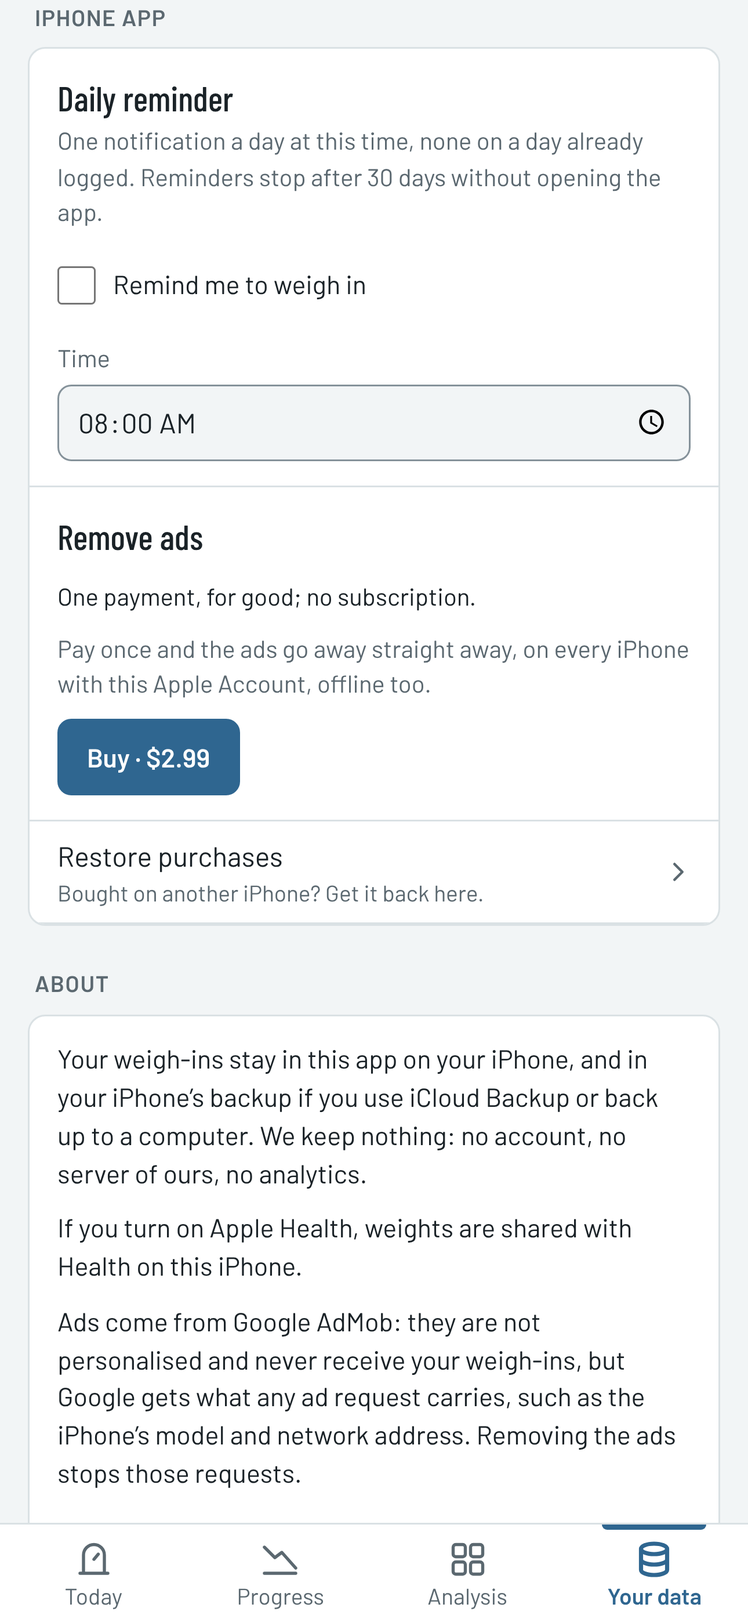
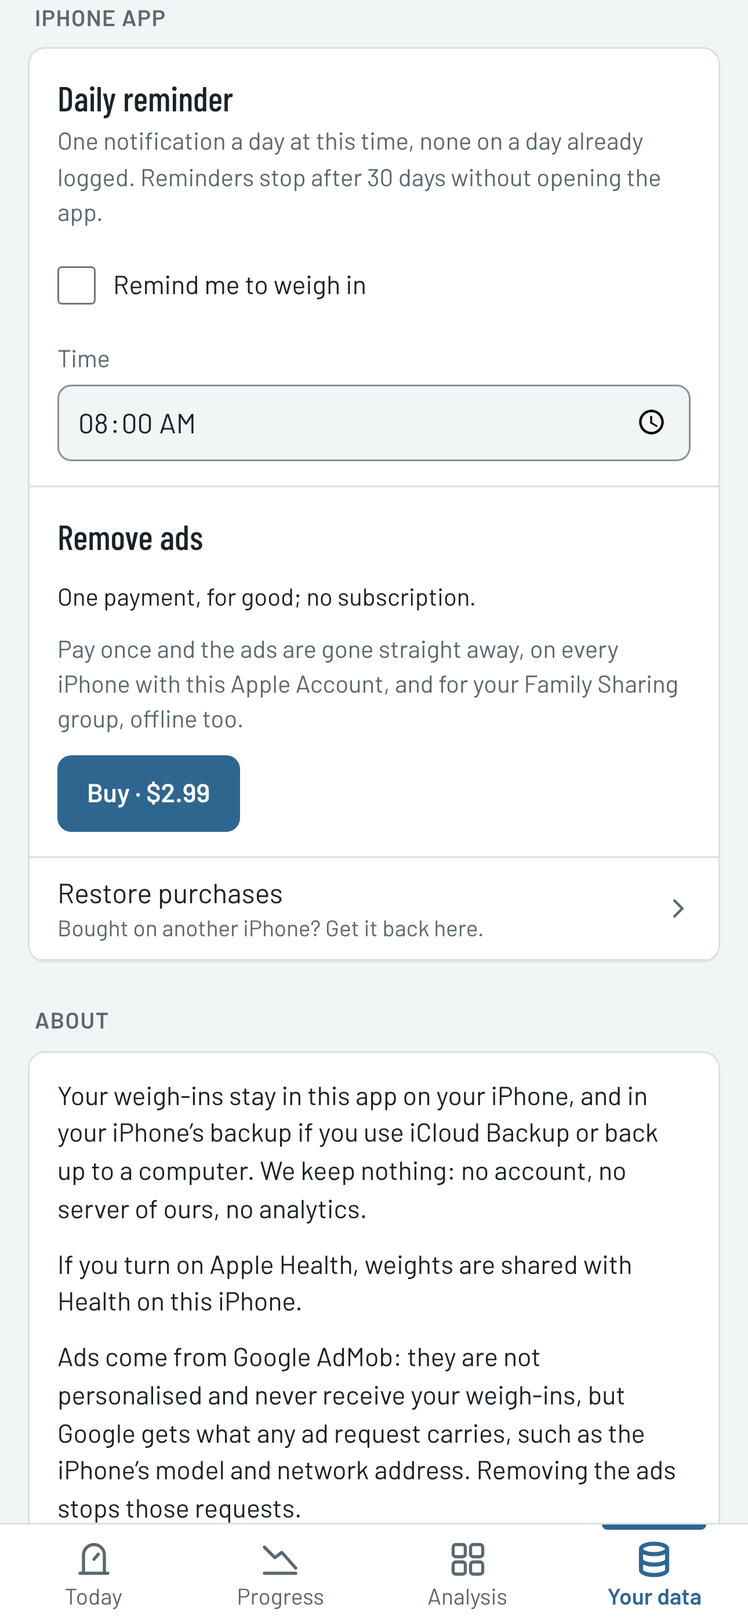
Remove ads review round 3: the one TestFlight purchase last, Screen Time on return
- STORE.md and STORE_PT.md: step 5 tries the purchase without buying (price,
  cancel, Screen Time, offline, Restore finding nothing); step 11 ends with the
  one TestFlight purchase, recorded with the proxy or Instruments running, then
  the reinstall and Restore; the recording shows the price and "No purchase to
  restore"; a second Apple Account as the alternative.
- Back in the app with the price showing, purchases are asked about again, so a
  Screen Time restriction shows at once; a Restore that fails online asks for
  the offer again.
- The note: "the ads are gone straight away"; the review screenshot's product
  is shared with the family, as in Products.storekit, and made again.
- Decisions 139, 141, 143 and 144 revised; 145 new.

Claude-Session: https://claude.ai/code/session_011eyJmFqrKPtnAc9no4tn3K

Changed region(s): [[0.031, 0.3734, 0.8992, 0.9335], [0.6512, 0.3734, 0.8992, 0.4356], [0.8062, 0.7468, 0.8372, 0.7779]]

diff --git a/src/ads/purchase.dom.test.ts b/src/ads/purchase.dom.test.ts
@@ -130,6 +130,36 @@ describe('Remove ads at launch', () => {
   });
 });
 
+describe('coming back to the app', () => {
+  it('says purchases are turned off when Screen Time forbade them while the price showed', async () => {
+    const p = start();
+    p.show();
+    await p.settled();
+    expect(offer()).toBe('ready');
+    store.allowed = false;
+    document.dispatchEvent(new Event('visibilitychange'));
+    await settle();
+    await settle();
+    expect(offer()).toBe('not-allowed');
+    // Allowed again: the price comes back on the next return.
+    store.allowed = true;
+    document.dispatchEvent(new Event('visibilitychange'));
+    await settle();
+    await p.settled();
+    expect(offer()).toBe('ready');
+  });
+
+  it('keeps the price when purchases are still allowed', async () => {
+    const p = start();
+    p.show();
+    await p.settled();
+    document.dispatchEvent(new Event('visibilitychange'));
+    await settle();
+    await settle();
+    expect(p.view().offer).toEqual({ kind: 'ready', product: PRODUCT });
+  });
+});
+
 describe('buying Remove ads', () => {
   const ready = async () => {
     const p = start();
@@ -311,6 +341,21 @@ describe('answers that arrive out of order (Spock’s review)', () => {
     store.finishBuy();
     await buying;
     expect(html.classList.contains(BUYING_CLASS)).toBe(false);
+  });
+
+  it('asks for the offer again when a Restore fails online after an offline line', async () => {
+    store.failProduct = 'other';
+    online = false;
+    const p = start();
+    p.show();
+    await p.settled();
+    expect(offer()).toBe('offline');
+    online = true;
+    store.failProduct = null;
+    store.restoreFails = true;
+    await p.restore();
+    await p.settled();
+    expect(p.view()).toEqual({ offer: { kind: 'ready', product: PRODUCT }, restore: 'failed' });
   });
 
   it('reports Restore as restored when it is already held', async () => {

diff --git a/src/ads/purchase.ts b/src/ads/purchase.ts
@@ -239,6 +239,15 @@ export function startPurchase(options: PurchaseOptions): LivePurchase {
     // Back in the app: what stopped the offer may have gone (online again, purchases allowed).
     const { kind } = view.offer;
     if (kind === 'offline' || kind === 'unavailable' || kind === 'not-allowed') await loadOffer();
+    // Or purchases may have been forbidden meanwhile (Screen Time): the button would only fail.
+    else if (kind === 'ready') {
+      const n = ++asked;
+      const allowed = await api.canPay().catch(() => true);
+      // Read again: the offer may have changed while the App Store was asked.
+      const still = (): Offer['kind'] => view.offer.kind;
+      if (!allowed && n === asked && !heldNow() && still() === 'ready')
+        set({ offer: { kind: 'not-allowed' } });
+    }
   };
 
   const first = ask();
@@ -356,6 +365,10 @@ export function startPurchase(options: PurchaseOptions): LivePurchase {
       } catch (error) {
         onError(error);
         set({ restore: online() ? 'failed' : 'offline' });
+        // Online, a stale "can't be reached" under Remove ads is asked again.
+        const { kind } = view.offer;
+        if (online() && (kind === 'offline' || kind === 'failed' || kind === 'unavailable'))
+          await loadOffer();
       }
     },
     show: () => {

diff --git a/src/i18n/messages.ts b/src/i18n/messages.ts
@@ -1072,7 +1072,7 @@ export const en = {
   'iap.title': 'Remove ads',
   'iap.ready': 'One payment, for good; no subscription.',
   'iap.note': (family: boolean): string =>
-    `Pay once and the ads go away straight away, on every iPhone with this Apple Account${family ? ', and for your Family Sharing group' : ''}, offline too.`,
+    `Pay once and the ads are gone straight away, on every iPhone with this Apple Account${family ? ', and for your Family Sharing group' : ''}, offline too.`,
   'iap.buy': (price: string) => `Buy · ${price}`,
   'iap.buying': 'Opening the App Store…',
   'iap.buyingButton': 'Buying…',

diff --git a/src/ui/remove-ads.dom.test.ts b/src/ui/remove-ads.dom.test.ts
@@ -78,7 +78,7 @@ describe('Remove ads', () => {
     expect(button().hidden).toBe(false);
     expect(button().textContent).toBe('Buy · R$ 14,90');
     expect($('remove-ads-note').textContent).toBe(
-      'Pay once and the ads go away straight away, on every iPhone with this Apple Account, offline too.',
+      'Pay once and the ads are gone straight away, on every iPhone with this Apple Account, offline too.',
     );
     button().click();
     expect(purchase.calls).toContain('buy');

diff --git a/docs/STORE_PT.md b/docs/STORE_PT.md
@@ -66,29 +66,30 @@ de consentimento.
    - O **Compartilhamento Familiar** é escolha sua, e pode ser ligado depois, mas nunca mais
      desligado. O app o lê da App Store: ligado, a linha sob o botão acrescenta "e para o seu grupo
      de Compartilhamento Familiar".
-   - **Teste no TestFlight** assim que a compra existir (ela precisa do acordo do passo 2; pode
-     levar uma hora para chegar ao sandbox). As compras no TestFlight são gratuitas, usam a sua
-     própria Conta Apple e **não podem ser apagadas**: comprado uma vez, essa Conta Apple tem Remover
-     anúncios no TestFlight para sempre. Então confira antes tudo o que precisa dela não comprada, e
-     compre por último. Nesta ordem, em Seus dados › App para iPhone:
+   - **Teste no TestFlight, sem comprar,** assim que a compra existir (ela precisa do acordo do
+     passo 2; pode levar uma hora para chegar ao sandbox). As compras no TestFlight são gratuitas,
+     usam a sua própria Conta Apple e **não podem ser apagadas**: comprado uma vez, essa Conta Apple
+     tem Remover anúncios no TestFlight para sempre, e então nada do Google é iniciado no seu
+     iPhone,
+     de modo que o banner, as Opções de privacidade, a salvaguarda do EEE e quase todo o registro de
+     rede do passo 11 não podem mais ser conferidos. Por isso **a compra em si é a última coisa que
+     você faz antes de submeter** (passo 11). Agora, em Seus dados › App para iPhone, nesta ordem:
      1. **Remover anúncios** mostra o preço vindo da App Store. Sem preço, a linha diz que não foi
         possível acessar a App Store ou que a opção Remover anúncios não está disponível: a compra
         ainda não está no App Store Connect, ou o id dela é outro.
      2. Toque em **Comprar** e cancele a tela da Apple: volta ao botão, sem mensagem.
-     3. Em Ajustes › Tempo de Uso › Restrições de Conteúdo e Privacidade, proíba as compras dentro de
-        apps e volte: a linha diz que as compras estão desativadas. Permita de novo e volte: o preço
-        reaparece.
-     4. No Modo Avião, toque em **Comprar** (ou Tentar de novo): a linha diz que não foi possível
-        acessar a App Store. De volta on-line, **Tentar de novo** mostra o preço.
+     3. Com o preço à vista, em Ajustes › Tempo de Uso › Restrições de Conteúdo e Privacidade,
+        proíba as compras dentro de apps e volte ao app: a linha diz que as compras estão
+        desativadas, sem botão. Permita de novo e volte: o preço reaparece.
+     4. No Modo Avião, toque em **Comprar**: a linha diz que não foi possível acessar a App Store.
+        De
+        volta on-line, **Tentar de novo** mostra o preço.
      5. Toque em **Restaurar compras**: "Nenhuma compra para restaurar nesta Conta Apple."
-     6. **Compre, gravando.** Faça isso na instalação que você usa, depois dos 7 primeiros dias, com
-        o banner no alto, e grave a tela: o banner some na hora e a linha diz "Anúncios removidos.
-        Obrigado.". Guarde esse trecho para a App Review (passo 11): é a única vez que essa Conta
-        Apple pode mostrar uma compra tirando o banner. O Sobre passa a dizer que os anúncios foram
-        removidos.
-     7. Apague o app e instale de novo: Seus dados já diz "Anúncios removidos. Obrigado." ao abrir (o
-        StoreKit guarda a compra), e nenhum banner vem. **Restaurar compras** diz então "Compra
-        restaurada.".
+
+     Se preferir comprar antes do passo 11, use uma segunda Conta Apple: adicione-a como outra
+     testadora do TestFlight (no App Store Connect, TestFlight, Internal Testing) e compre com ela
+     em outro iPhone, ou depois de trocar a conta em Ajustes › seu nome › Mídia e Compras; a sua
+     conta continua sem a compra para as conferências do passo 11.
 
      O Pedir para Comprar ("Aguardando aprovação") precisa de uma conta real de criança numa família
      no TestFlight, ou do arquivo de configuração do StoreKit (`ios/App/Products.storekit`, já
@@ -174,13 +175,13 @@ de consentimento.
       do TestFlight de uma execução **For the App Store**, com um registro de rede, veja que não há
       nenhum pedido ao Google (`*.google.com`, `*.googleapis.com`, `*.doubleclick.net`,
       `*.googlesyndication.com`, `app-measurement.com` e afins) em cada um destes estados: uma
-      instalação nova nos 7 primeiros dias, com pesagens; Remover anúncios comprado (no sandbox, com
-      o app aberto de novo); uma recusa na mensagem do Google; e, numa mesma sessão, depois de
-      retirar o consentimento em Opções de privacidade e depois de comprar Remover anúncios (nenhum
-      pedido novo a partir daí). A primeira ferramenta é o próprio **Relatório de Privacidade dos
-      Apps** do iPhone (Ajustes › Privacidade e Segurança › Relatório de Privacidade dos Apps, ligado
+      instalação nova nos 7 primeiros dias, com pesagens; uma recusa na mensagem do Google; e, numa
+      mesma sessão, depois de retirar o consentimento em Opções de privacidade. Os estados com
+      Remover anúncios (comprado durante uma sessão, depois já comprado na abertura seguinte) vêm
+      por último, junto com a própria compra (o último item abaixo). A primeira ferramenta é o
+      próprio **Relatório de Privacidade dos Apps** do iPhone (Ajustes › Privacidade e Segurança › Relatório de Privacidade dos Apps, ligado
       antes do teste): ele lista cada domínio que cada app contatou, então cobre os estados que
-      atravessam uma abertura (os primeiros dias, a compra feita, uma recusa). Para os estados numa
+      atravessam uma abertura (os primeiros dias, uma recusa, a compra feita). Para os estados numa
       mesma sessão, use um proxy (no Mac de um amigo, como o Proxyman ou o Charles) ou o modelo
       Network do Instruments, que mostram quando cada pedido foi feito. Se algum aparecer, pare o
       lançamento e avise uma sessão.
@@ -200,12 +201,10 @@ de consentimento.
       outro iPhone). Num iPhone em inglês com o iOS mais recente, comece a gravação de tela pela
       Central de Controle e mostre, devagar: a primeira pesagem, o resumo e um gráfico, um cartão de
       análise, ligar o app Saúde e a tela de permissão, o lembrete, Remover anúncios com o preço e
-      Restaurar compras (no TestFlight sua Conta Apple já tem a compra, então Restaurar diz "Compra
-      restaurada."; a compra em si é o trecho do passo 5), as configurações e a política de
-      privacidade. Dois a quatro
-      minutos, mais o trecho do banner e o trecho da compra do passo 5; corte as pontas no app Fotos.
-      Cole as [notas de revisão](STORE.md#app-review-notes) (em inglês, como a Apple as lê) em Notes
-      da App Review Information e anexe os três.
+      Restaurar compras ("Nenhuma compra para restaurar nesta Conta Apple."; nada foi comprado
+      ainda), as configurações e a política de privacidade. Dois a quatro minutos; corte as pontas
+      no app Fotos. Com o trecho do banner e o trecho da compra (o último item abaixo), ela vai com
+      as [notas de revisão](STORE.md#app-review-notes).
     - O status de comerciante (Digital Services Act) é declarado uma vez para a conta (feito para o
       Arrows em 4 de outubro de 2026); nada novo, a menos que a declaração passe para um endereço
       comercial.
@@ -213,6 +212,18 @@ de consentimento.
       Store**, em Portugal: a partir do 8º dia com uma pesagem, a mensagem de GDPR do Google
       apareceu, ou Opções de privacidade apareceu em Seus dados › App para iPhone e abriu o
       formulário do Google. Se nenhum dos dois aconteceu, não submeta.
+    - **Por último, a compra, gravada e registrada.** Tudo acima precisa de Remover anúncios não
+      comprado, então isto vem depois de tudo. Numa instalação com mais de 7 dias, com o banner no
+      topo (a gravação acima recomeça os 7 dias no iPhone de onde ela apaga o app, então faça-a em
+      outro iPhone, ou guarde uma instalação intacta para isto), ligue o proxy ou o modelo Network
+      do Instruments e a gravação de tela, e então em Seus dados › App para iPhone toque em
+      **Comprar** e confirme: o banner some na hora, a linha diz "Anúncios removidos. Obrigado." e o
+      registro não mostra nenhum pedido novo ao Google a partir daí. Feche o app e abra de novo:
+      nenhum anúncio, e nenhum pedido ao Google (o Relatório de Privacidade dos Apps concorda).
+      Depois apague o app e instale de novo: Seus dados diz "Anúncios removidos. Obrigado." ao
+      abrir, e **Restaurar compras** diz "Compra restaurada.". A gravação é o trecho da compra. Cole
+      as [notas de revisão](STORE.md#app-review-notes) (em inglês, como a Apple as lê) em Notes da
+      App Review Information e anexe a gravação, o trecho do banner e o trecho da compra.
     - Submeta. Depois do lançamento, avise a sessão: o site então ganha os links da App Store.
 
 ## Antes de cada versão

diff --git a/docs/STORE.md b/docs/STORE.md
@@ -65,28 +65,28 @@ name, the agreement for paid apps, the bank and tax details, the AdMob app and i
    - **Family Sharing** is your choice, and can be turned on later but never off again. The app
      reads it from the App Store: with it on, the line under the button adds "and for your Family
      Sharing group".
-   - **Try it on TestFlight** once the purchase exists (it needs step 2's agreement; it may take an
-     hour to reach the sandbox). TestFlight purchases are free and use your own Apple Account, and
-     **they can't be cleared**: once bought, that Apple Account holds Remove ads on TestFlight for
-     good. So check everything that needs it not bought first, and buy last. In this order, in Your
-     data › iPhone app:
+   - **Try it on TestFlight, without buying,** once the purchase exists (it needs step 2's
+     agreement; it may take an hour to reach the sandbox). TestFlight purchases are free and use
+     your own Apple Account, and **they can't be cleared**: once bought, that Apple Account holds
+     Remove ads on TestFlight for good, and then nothing of Google's starts on your iPhone, so the
+     banner, Privacy choices, the EEA safeguard and most of the network log of step 11 can't be
+     checked any more. So **the purchase itself is the last thing you do before submitting** (step
+     11). Now, in Your data › iPhone app, in this order:
      1. **Remove ads** shows the price from the App Store. With no price, the line says the App
         Store can't be reached or that "Remove ads" isn't available: the purchase isn't in App Store
         Connect yet, or its id differs.
      2. Tap **Buy** and cancel Apple's sheet: back to the button, no message.
-     3. In Settings › Screen Time › Content & Privacy Restrictions, forbid in-app purchases and come
-        back: the line says purchases are turned off. Allow them again and come back: the price
-        returns.
-     4. In Airplane Mode, tap **Buy** (or Try again): the line says the App Store can't be reached.
-        Back online, **Try again** shows the price.
+     3. With the price showing, in Settings › Screen Time › Content & Privacy Restrictions, forbid
+        in-app purchases and come back to the app: the line says purchases are turned off, with no
+        button. Allow them again and come back: the price returns.
+     4. In Airplane Mode, tap **Buy**: the line says the App Store can't be reached. Back online,
+        **Try again** shows the price.
      5. Tap **Restore purchases**: "No purchase to restore for this Apple Account."
-     6. **Buy, and record it.** Do it on the install you use, past its first 7 days, with the banner
-        at the top, and record the screen: the banner goes at once, and the line says "Ads removed.
-        Thank you.". Keep this clip for App Review (step 11): it is the only time this Apple Account
-        can show a purchase taking the banner away. About now says the ads are removed.
-     7. Delete the app and install it again: Your data already says "Ads removed. Thank you." at
-        launch (StoreKit keeps the purchase), and no banner comes. **Restore purchases** then says
-        "Purchase restored.".
+
+     If you'd rather buy before step 11, use a second Apple Account: add it as another TestFlight
+     tester (in App Store Connect, TestFlight, Internal Testing) and buy with it on another iPhone,
+     or after switching the account in Settings › your name › Media & Purchases; your own account
+     stays unbought for step 11's checks.
 
      Ask to Buy ("Waiting for approval") needs a real child account in a family on TestFlight, or
      the StoreKit configuration file (`ios/App/Products.storekit`, already chosen in the App scheme)
@@ -167,12 +167,12 @@ name, the agreement for paid apps, the bank and tax details, the AdMob app and i
       build from a run **for the App Store**, with a network log, see no request to Google
       (`*.google.com`, `*.googleapis.com`, `*.doubleclick.net`, `*.googlesyndication.com`,
       `app-measurement.com` and the like) in each of these states: a fresh install in its first 7
-      days, with weigh-ins; Remove ads held (bought in the sandbox, the app opened again); a refusal
-      in Google's message; and, within one session, after withdrawing consent in Privacy choices and
-      after buying Remove ads (no new requests from then on). The first tool is the iPhone's own
-      **App Privacy Report** (Settings › Privacy & Security › App Privacy Report, turned on before
+      days, with weigh-ins; a refusal in Google's message; and, within one session, after
+      withdrawing consent in Privacy choices. The states with Remove ads (bought during a session,
+      then held at the next launch) come last, with the purchase itself (the last item below). The
+      first tool is the iPhone's own **App Privacy Report** (Settings › Privacy & Security › App Privacy Report, turned on before
       the test): it lists every domain each app contacted, so it covers the states that span a
-      launch (the first days, the purchase held, a refusal). For the states within one session, use
+      launch (the first days, a refusal, the purchase held). For the states within one session, use
       a proxy (on a friend's Mac, such as Proxyman or Charles) or Instruments' Network template,
       which show when each request was made. If any shows one, stop the release and tell a
       session.
@@ -191,16 +191,26 @@ name, the agreement for paid apps, the bank and tax details, the AdMob app and i
       iPhone set to English with the latest iOS, start the screen recording from Control Center, and
       show, slowly: the first weigh-in, the summary and a chart, an analysis card, turning on Apple
       Health and its permission sheet, the reminder, Remove ads with its price and Restore
-      Purchases (on TestFlight your Apple Account already holds the purchase, so Restore says
-      "Purchase restored."; the purchase itself is the clip from step 5), settings and the privacy
-      policy. Two to four minutes, plus the banner clip and step 5's purchase clip; trim the ends in
-      Photos. Paste the [review notes](#app-review-notes) in the App Review Information's Notes and
-      attach all three.
+      Purchases ("No purchase to restore for this Apple Account."; nothing is bought yet), settings
+      and the privacy policy. Two to four minutes; trim the ends in Photos. With the banner clip and
+      the purchase clip (the last item below), it goes with the [review notes](#app-review-notes).
     - Trader status (Digital Services Act) is declared once for the account (done for Arrows on 4
       October 2026); nothing new is needed unless the declaration moves to a business address.
     - The EEA safeguard of step 6, on a TestFlight build from a run **for the App Store**, in
       Portugal: from the 8th day with a weigh-in, Google's GDPR message showed, or Privacy choices
       appeared in Your data › iPhone app and opened Google's form. If neither did, don't submit.
+    - **Last, the purchase, recorded and logged.** Everything above needs Remove ads not bought,
+      so this comes after it all. On an install past its first 7 days, with the banner at the top
+      (the recording above starts the 7 days again on the iPhone it deletes the app from, so make
+      it on another iPhone, or keep one install untouched for this), start the proxy or
+      Instruments' Network template and the screen recording, then in Your data › iPhone app tap
+      **Buy** and confirm: the banner goes at once, the line says "Ads
+      removed. Thank you.", and the log shows no new request to Google from then on. Close the app
+      and open it again: still no ad, and no request to Google (the App Privacy Report agrees). Then
+      delete the app and install it again: Your data says "Ads removed. Thank you." at launch, and
+      **Restore purchases** says "Purchase restored.". The recording is the purchase clip. Paste
+      the [review notes](#app-review-notes) in the App Review Information's Notes and attach the
+      recording, the banner clip and the purchase clip.
     - Submit. After the release, tell the session: the website then gets the App Store links.
 
 ## App Review notes

diff --git a/docs/decisions.md b/docs/decisions.md
@@ -843,7 +843,8 @@ decisions above.
      (`aria-disabled`); while the App Store is asked again (Try again) the button stays where it was,
      unavailable, with the line "Asking the App Store…", so the focus stays on it; the focus moves
      to the title only when the new state has no button (bought, waiting for approval, not allowed;
-     DaVinci's review). Every line is plain, a failure's too, as design §7 draws them. _Alternative:_ a sheet of ours with the price and the words, then Apple's.
+     DaVinci's review). Every line is plain, a failure's too, as design §7 draws them.
+     _Alternative:_ a sheet of ours with the price and the words, then Apple's.
 139. **How a failure is told apart.** The plugin rejects with fixed English messages for a cancel
      ("User cancelled": back to Ready, no message), a pending purchase ("Transaction pending": Ask to
      Buy, or the bank) and an unknown product; anything else is StoreKit's localized text. So after
@@ -853,20 +854,23 @@ decisions above.
      are new, in English and proposed Portuguese (design §7, as built): the product not in the App
      Store, purchases not allowed by Screen Time, "Asking the App Store…", "Purchase restored." and
      "Nothing was restored. Try again." (a failure while online, a cancelled sign-in included).
-     _Alternative:_ one generic failure line.
+     Purchases are asked about again on every return to the app while the price shows, so a
+     Screen Time restriction made meanwhile shows at once rather than on the next tap (Atlas's
+     review). _Alternative:_ one generic failure line.
 140. **The words say what is true for this purchase.** Under the button: one payment, for good, on
      every iPhone with this Apple Account, offline too, and "for your Family Sharing group" only when
      StoreKit says the product is shareable (the owner's choice in App Store Connect, STORE.md,
      step 5). About's ads sentence becomes, once held, "The ads are removed: the app no longer starts Google’s
      ad software, and nothing more is sent to Google." (`about.app.adsRemoved`; Portuguese "Os
      anúncios foram removidos: o app não inicia mais o software de anúncios do Google, e nada mais é
-     enviado ao Google."). The note is "Pay once and the ads go away straight away, on every iPhone
+     enviado ao Google."). The note is "Pay once and the ads are gone straight away, on every iPhone
      with this Apple Account, offline too." (revised after Atlas's and DaVinci's reviews). _Alternative:_ the design's line alone.
 141. **Restore purchases stays after the purchase is held**, and `buying` is on `<html>` during a
      restore too, since Apple's sign-in sheet may come up. Waiting for approval lasts the session;
      the approval comes through StoreKit's updates and the ads stop then. Restore says "Purchase
      restored." whenever the purchase is held after it, and asks for the price again when the
-     offer was offline, failed or unavailable; two App Store sheets at once keep `buying` until the
+     offer was offline, failed or unavailable, after a Restore that found nothing or failed while
+     online; two App Store sheets at once keep `buying` until the
      last has gone. _Alternative:_ hide Restore once held.
 142. **The privacy policy is unchanged.** It says the purchase is handled by Apple, that we receive
      no payment details, and that the app checks it on the iPhone with Apple's tools and no
@@ -883,11 +887,25 @@ decisions above.
      verified only), deciding as the app does: the product found with its price, a purchase held,
      a refund revoking it, Ask to Buy pending then approved, and declined. The iOS workflow runs it
      after the app's launch check (`xcodebuild test -only-testing:AppStoreKitTests`), so its first
-     run is the pull request's. _Alternative:_ a Swift package of its own under `ios/`, whose tests
+     run is the pull request's. The test repeats the plugin's StoreKit calls in Swift rather than
+     calling the plugin; `scripts/purchase.test.ts` covers the plugin itself, from its installed
+     source. _Alternative:_ a Swift package of its own under `ios/`, whose tests
      would run without a host app, where `SKTestSession` isn't dependable.
 144. **The purchase's review screenshot is made here** (Atlas's review): App Store Connect won't
      submit the purchase without one. `npm run store:screenshots` (story 4 adds the listing's to
      it) runs the app's build in Chromium with a stand-in for Capacitor's native bridge whose
-     StoreKit sells Remove ads at $2.99, and writes Your data › iPhone app with "Buy · $2.99" at
-     1290 × 2796 to `ios/App/fastlane/screenshots/review/remove-ads.png`, committed. The app's own
+     StoreKit sells Remove ads at $2.99, shared with the family as in `Products.storekit`, and
+     writes Your data › iPhone app with "Buy · $2.99" at 1290 × 2796 to
+     `ios/App/fastlane/screenshots/review/remove-ads.png`, committed. The app's own
      plugin is registered once (`platform/ad-setup.ts`) for the ads and the purchase.
+145. **The one TestFlight purchase is the owner's last step before submitting** (Atlas's review).
+     TestFlight purchases can't be cleared, and once Remove ads is held nothing of Google's starts,
+     so the banner and Privacy choices clips, the EEA safeguard and the network log for a refusal
+     and
+     a withdrawn consent must come first. Step 5 checks what needs the purchase not bought (price,
+     cancel, Screen Time, offline, Restore finding nothing); step 11 ends with the purchase,
+     recorded
+     with the proxy or Instruments running, so the one purchase gives both App Review's clip and the
+     "no new requests after buying" log, then the reinstall and Restore. _Alternative:_ a second
+     Apple Account, as another TestFlight tester, for the purchase checks at any time (STORE.md,
+     step 5, says how).

diff --git a/docs/sprint-4.md b/docs/sprint-4.md
@@ -94,8 +94,8 @@ both change together, in the same pull request.
    more, decision 139) and **Restore purchases**; `buying` is on `<html>` while Apple's sheet is up.
    About says the ads are gone once held (decision 140); the policy is unchanged (decision 142).
    `check:dist` fails when the website's scripts carry purchase code. STORE.md's step 5 has the
-   owner's sandbox round (in an order that keeps the one purchase an Apple Account can make on
-   TestFlight for last, recorded for App Review), and the review notes the purchase;
+   owner's sandbox round without buying, and step 11 ends with the one TestFlight purchase, recorded
+   and logged (decision 145), and the review notes the purchase;
    `npm run store:screenshots` makes the purchase's review screenshot (decision 144).
    `AppStoreKitTests`, hosted in the app, runs on the macOS runner with `ios/App/Products.storekit`
    in an `SKTestSession`: the product and its price, a purchase held, a refund, Ask to Buy approved

diff --git a/docs/ux/design.md b/docs/ux/design.md
@@ -860,8 +860,8 @@ Each line is a live region, so a screen reader hears the change.
 
 _As built (Sprint 4, story 2; decisions 138 to 141, open to the owner)._ The row is a card of the
 group (a title, the line, a note and the button at its start, 44 px tall), and the App Store's own
-sheet is the confirmation. A note under the line while the price shows: "Pay once and the ads go
-away straight away, on every iPhone with this Apple Account, offline too." ("Pague uma vez e os
+sheet is the confirmation. A note under the line while the price shows: "Pay once and the ads are
+gone straight away, on every iPhone with this Apple Account, offline too." ("Pague uma vez e os
 anúncios somem na hora, em todo iPhone com esta Conta Apple, mesmo off-line."), with ", and for your
 Family Sharing group" (", e para o seu grupo de Compartilhamento Familiar") when the owner turns
 Family Sharing on. Every line is plain, a failure's too. While the App Store is asked (at first, and
